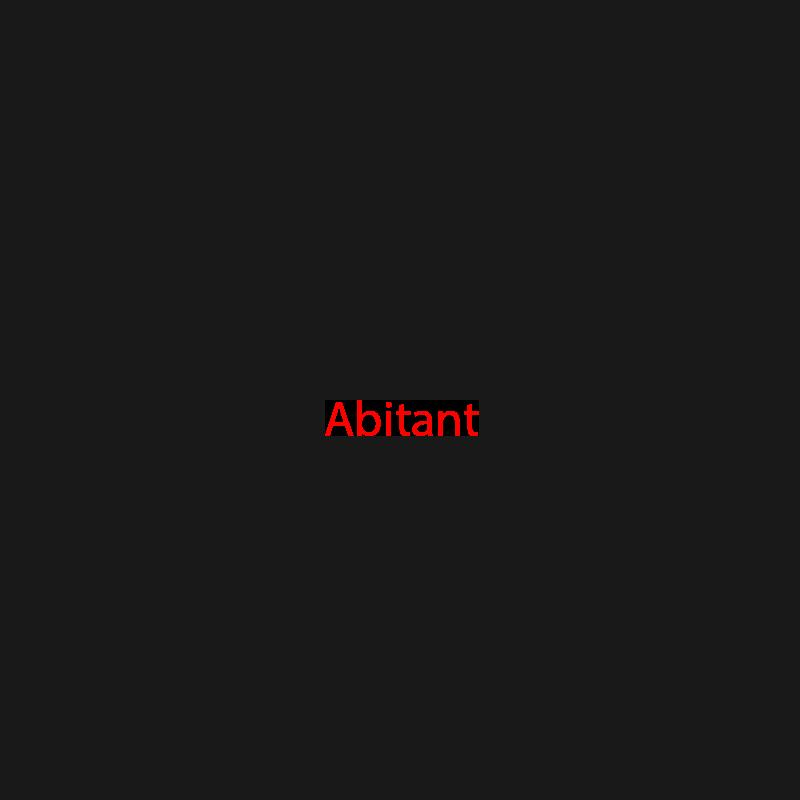
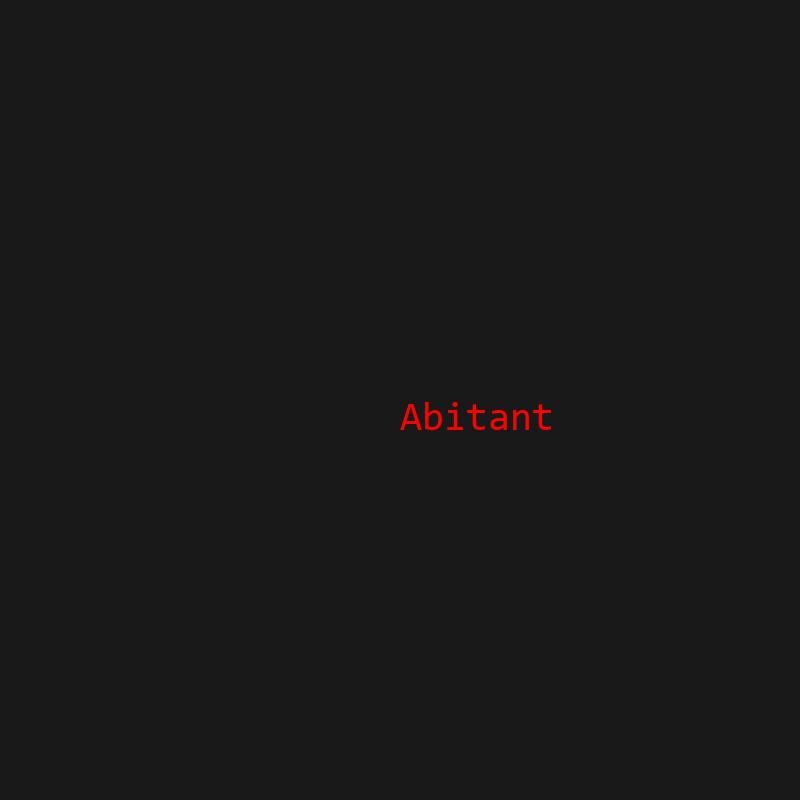
change other data

Changed region(s): [[0.4062, 0.5, 0.6875, 0.5625]]

diff --git a/text_watermark.py b/text_watermark.py
@@ -12,18 +12,18 @@ def watermark_text(input_image_path,
     drawing = ImageDraw.Draw(photo)
  
     red = (255, 0, 0)
-    font = ImageFont.truetype("consolas.ttf", 40)
+    font = ImageFont.truetype("font/consolas.ttf", 40)
     drawing.text(pos, text, fill=red, font=font)
     photo.show()
     photo.save(output_image_path)
  
  
 if __name__ == '__main__':
-    img = 'main.jpg'
+    img = 'img/main.jpg'
     
-    base = Image.open('main.jpg')
+    base = Image.open('img/main.jpg')
     width, height = base.size
     
-    watermark_text(img, 'main_watermarked.jpg',
+    watermark_text(img, 'img/main_watermarked.jpg',
                    text='Abitant',
                    pos=(height/2, width/2))
